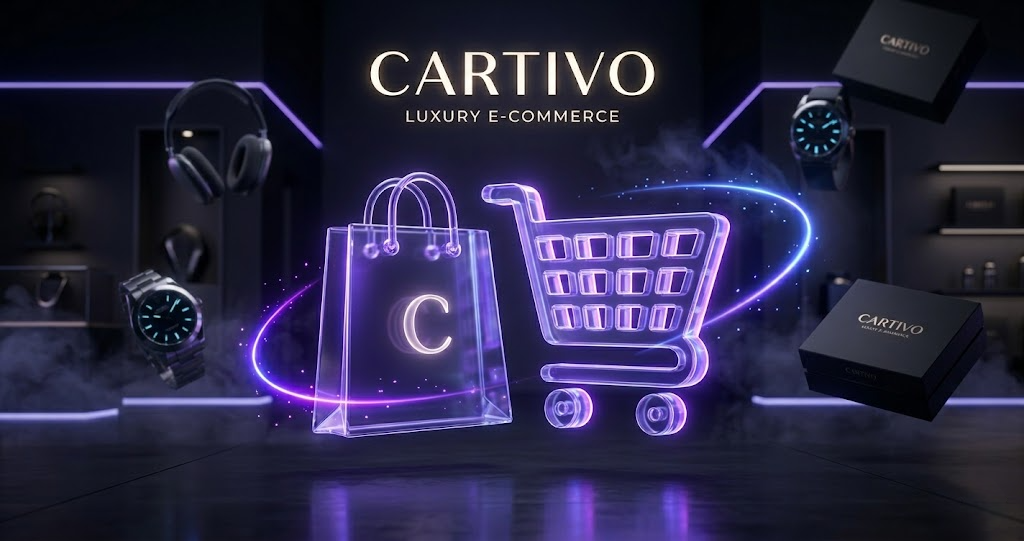
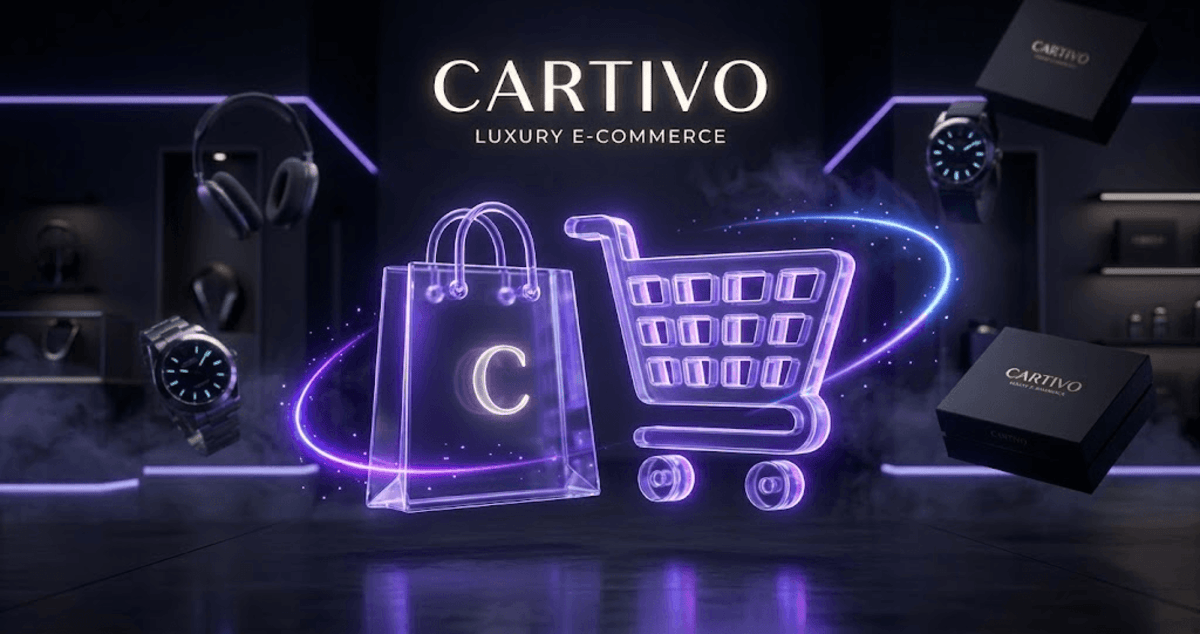
fix og image

diff --git a/index.html b/index.html
@@ -9,12 +9,12 @@
     <meta name="viewport" content="width=device-width, initial-scale=1.0" />
 
     <!-- Primary SEO -->
-    <title>Cartivo - Modern Ecommerce Store</title>
+    <title>Cartivo - Shop Fashion, Electronics & More Online</title>
 
-    <meta name="title" content="Cartivo - Modern Ecommerce Store" />
+    <meta name="title" content="Cartivo - Shop Fashion, Electronics & More Online" />
 
     <meta name="description"
-        content="Shop fashion, electronics, groceries, mobiles and more at Cartivo with secure checkout, fast delivery, and premium shopping experience." />
+        content="Discover fashion, electronics, groceries, mobiles, accessories and more at Cartivo with secure checkout, fast delivery, premium quality products and exciting offers." />
 
     <meta name="keywords"
         content="Cartivo, ecommerce, online shopping, fashion, electronics, groceries, mobile shopping, clothing, gadgets, shoes, accessories" />
@@ -43,10 +43,10 @@
     <!-- Open Graph -->
     <meta property="og:type" content="website" />
 
-    <meta property="og:title" content="Cartivo - Modern Ecommerce Store" />
+    <meta property="og:title" content="Cartivo - Shop Fashion, Electronics & More Online" />
 
     <meta property="og:description"
-        content="Shop fashion, electronics, groceries, mobiles and more at Cartivo with secure checkout and fast delivery." />
+        content="Discover fashion, electronics, groceries, mobiles, accessories and more at Cartivo with secure checkout, fast delivery, premium quality and exciting offers." />
 
     <meta property="og:image" content="https://cartivoshop.vercel.app/og-image.png" />
 
@@ -58,7 +58,7 @@
 
     <meta property="og:image:width" content="1200" />
 
-    <meta property="og:image:height" content="630" />
+    <meta property="og:image:height" content="634" />
 
     <meta property="og:url" content="https://cartivoshop.vercel.app/" />
 
@@ -69,16 +69,16 @@
     <!-- Twitter -->
     <meta name="twitter:card" content="summary_large_image" />
 
-    <meta property="og:image:alt" content="Cartivo Ecommerce Store" />
-
-    <meta name="twitter:title" content="Cartivo - Modern Ecommerce Store" />
+    <meta name="twitter:title" content="Cartivo - Shop Fashion, Electronics & More Online" />
 
     <meta name="twitter:description"
-        content="Shop fashion, electronics, groceries, mobiles and more at Cartivo with secure checkout and fast delivery." />
+        content="Discover fashion, electronics, groceries, mobiles, accessories and more at Cartivo with secure checkout, fast delivery, premium quality and exciting offers." />
 
     <meta name="twitter:image" content="https://cartivoshop.vercel.app/og-image.png" />
 
     <meta name="twitter:image:src" content="https://cartivoshop.vercel.app/og-image.png" />
+
+    <meta name="twitter:image:alt" content="Cartivo Ecommerce Store Banner" />
 
     <!-- DNS Prefetch -->
     <link rel="dns-prefetch" href="https://fonts.googleapis.com" />